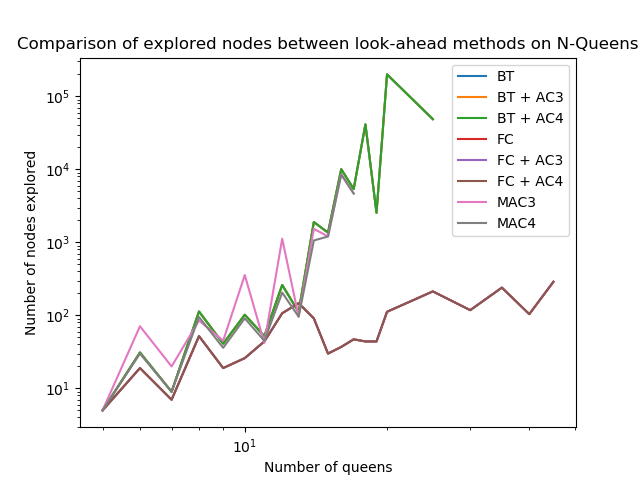
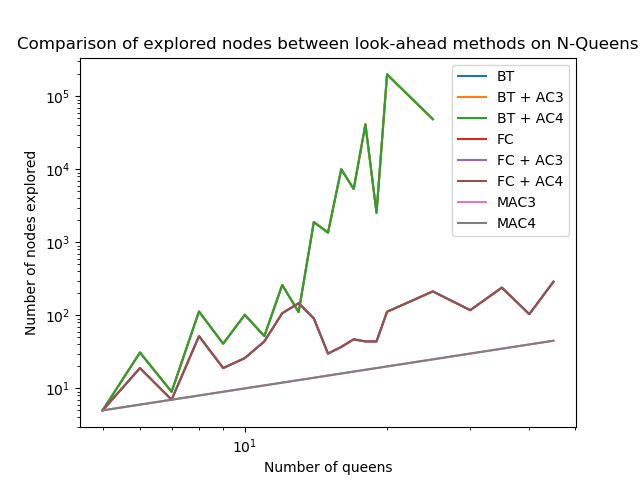
correction MAC+pics

diff --git a/src/CSP.py b/src/CSP.py
@@ -86,11 +86,11 @@ class CSP(object):
     
     def set_MAC3(self):
         self.param["look-ahead"].update({"MAC3": True})
-        self.param["look-ahead"].update({"BT": True})
+        #self.param["look-ahead"].update({"BT": True})
 
     def set_MAC4(self):
         self.param["look-ahead"].update({"MAC4": True})
-        self.param["look-ahead"].update({"BT": True})
+        #self.param["look-ahead"].update({"BT": True})
 
     def __init_matrix_incidence_supported_values_counter(self):
         """ Initialize a binary incidence matrix such that mat[var1][var2] = True if var1 and var2 are linked by a

diff --git a/src/n_queens.py b/src/n_queens.py
@@ -216,5 +216,5 @@ if __name__ == "__main__":
         # solve_nqueens(15, settings=["MAC4"])
     benchmarking_consistency()
 
-    for (s, h) in [(VARIABLES_SELECTION, "variables"), (VALUES_SELECTION, "values")]:
-        benchmarking_heuristics(s, h)
+    # for (s, h) in [(VARIABLES_SELECTION, "variables"), (VALUES_SELECTION, "values")]:
+    #     benchmarking_heuristics(s, h)
